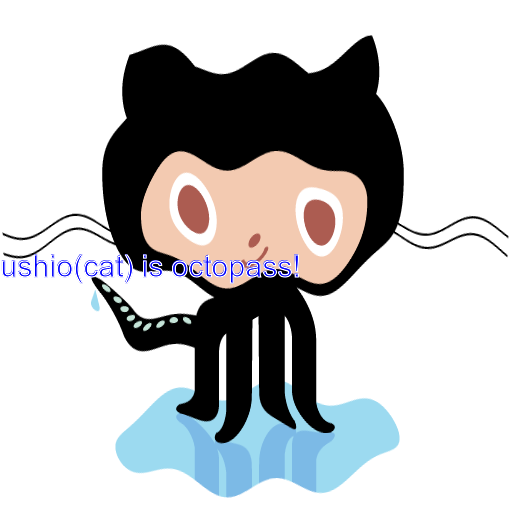
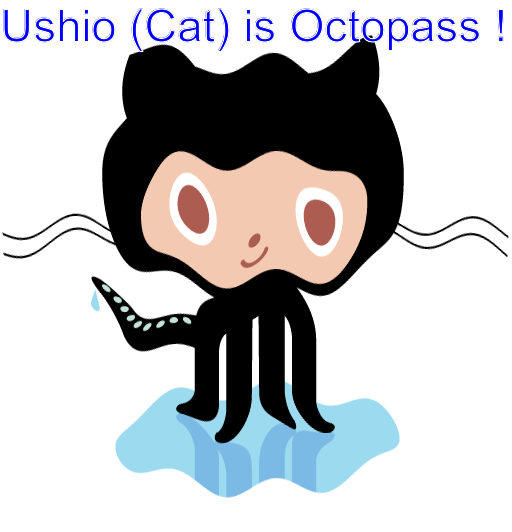
画像の位置を調整

diff --git a/rmagick.rb b/rmagick.rb
@@ -7,11 +7,11 @@ image2 = image.wave(amplitude=10.0, wavelength=100.0)
 
 md = Magick::Draw.new
 
-md.annotate(image2,0,0,0,0,"ushio(cat) is octopass!") do
+md.annotate(image2,0,0,0,0,"Ushio (Cat) is Octopass ! ") do
 
-	md.gravity = Magick::WestGravity
+	md.gravity = Magick::NorthWestGravity
 
-	md.pointsize = 30
+	md.pointsize = 45
 	md.fill = "blue"
 	md.stroke = "white"
 end
